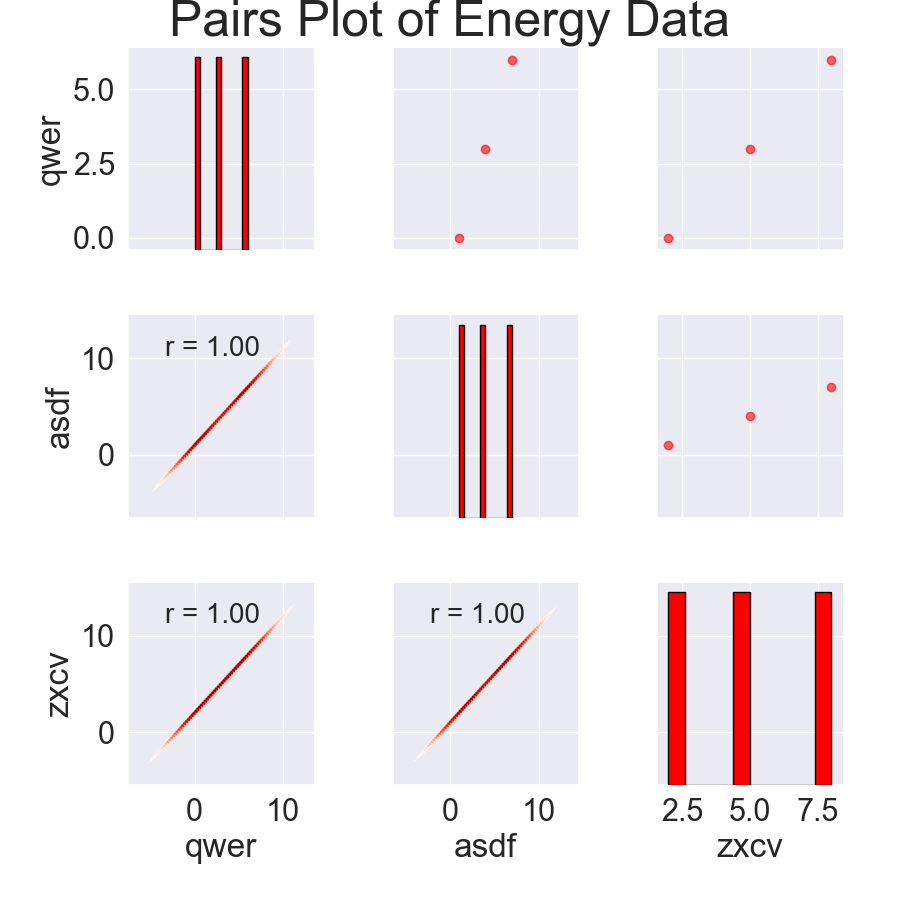
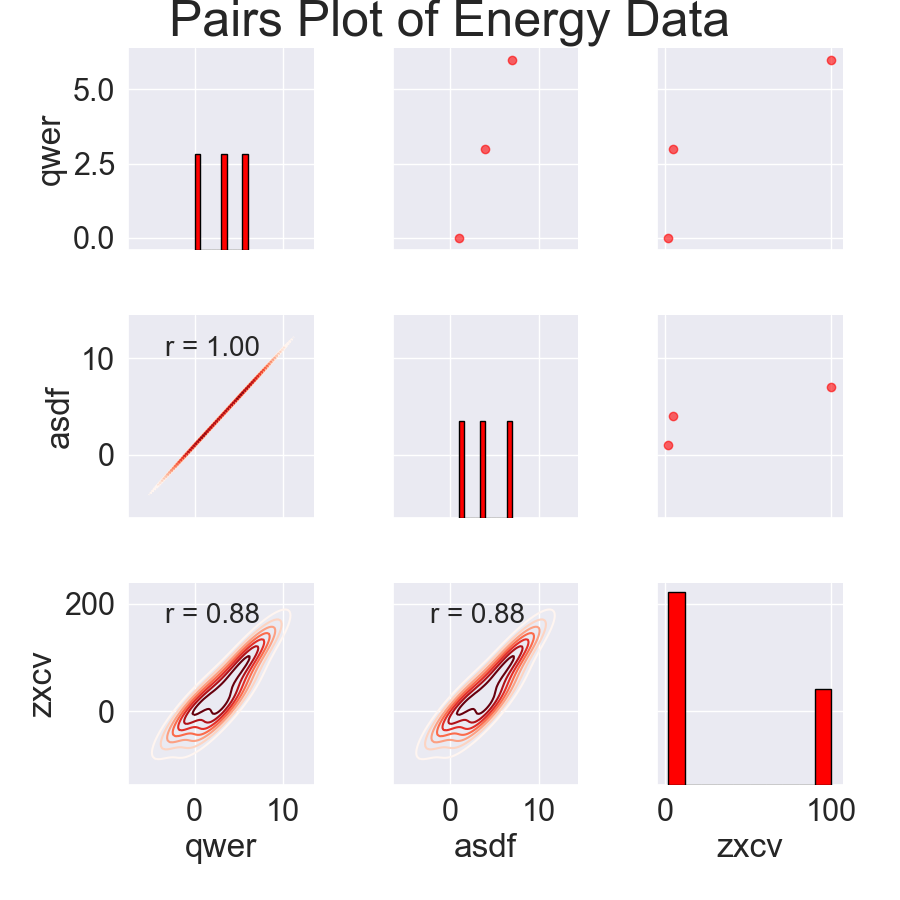
Add new chart

diff --git a/semester_stat.py b/semester_stat.py
@@ -1,0 +1,48 @@
+# coding=utf-8
+import pandas as pd
+import matplotlib.pyplot as plt
+
+# dates = ["2016-07-05 03:00:00", "2016-08-06 16:00:00", "2016-12-07 21:00:00",
+#          "2016-19-08 23:00:00", "2016-25-09 06:00:00", "2016-12-10 21:00:00",
+#          "2016-10-11 21:00:00", "2016-10-12 04:00:00", "2017-01-01 07:00:00",
+#          "2017-01-02 07:00:00"]
+dates = ["1 семестр", "2 семестр", "3 семестр", "4 семестр",
+         "5 семестр", "6 семестр", "7 семестр", "8 семестр",
+         "1 семестр", "2 семестр", "3 семестр", "4 семестр",
+         "5 семестр", "6 семестр", "7 семестр", "8 семестр",
+         "1 семестр", "2 семестр", "3 семестр", "4 семестр",
+         "5 семестр", "6 семестр", "7 семестр", "8 семестр"]
+# app = ["Thermometer","Thermometer","Thermometer","Thermostat","Thermostat","Thermometer",
+#        "Thermostat","Thermometer","Thermostat","Thermometer"]
+app = ["2016", "2016", "2016", "2016",
+       "2016", "2016", "2016", "2016",
+       "2017", "2017", "2017", "2017",
+       "2017", "2017", "2017", "2017",
+       "2018", "2018", "2018", "2018",
+       "2018", "2018", "2018", "2018"]
+# values = [22,19,25,21,20,18,21,20,19,23]
+values = [22, 19, 25, 21,
+          20, 18, 21, 20,
+          32, 39, 35, 31,
+          30, 38, 31, 30,
+          42, 49, 45, 41,
+          40, 48, 41, 40]
+df = pd.DataFrame({"Date": dates, "Appliance": app, "Value": values})
+# df.Date = pd.to_datetime(df['Date'], format='%Y-%d-%m %H:%M:%S')
+df=df.set_index('Date')
+
+##########
+
+df1 = df[df["Appliance"] == "2016"]
+df2 = df[df["Appliance"] == "2017"]
+df3 = df[df["Appliance"] == "2018"]
+
+plt.plot(df1.index, df1["Value"].values, marker="o", label="2016")
+plt.plot(df2.index, df2["Value"].values, marker="o", label="2017")
+plt.plot(df3.index, df3["Value"].values, marker="o", label="2018")
+plt.gcf().autofmt_xdate()
+plt.xlabel(u"Семестр")
+plt.ylabel(u"Успеваемость, %")
+plt.legend()
+
+plt.savefig('semester_stat.png')

diff --git a/density_plot.py b/density_plot.py
@@ -1,0 +1,70 @@
+# Pandas and numpy for data manipulation
+import inline as inline
+import pandas as pd
+import numpy as np
+
+# No warnings about setting value on copy of slice
+pd.options.mode.chained_assignment = None
+
+# Display up to 60 columns of a dataframe
+pd.set_option('display.max_columns', 60)
+
+# Matplotlib visualization
+import matplotlib
+import matplotlib.pyplot as plt
+
+# %matplotlib inline
+
+# Set default font size
+plt.rcParams['font.size'] = 24
+
+# Internal ipython tool for setting figure size
+from IPython.core.pylabtools import figsize
+
+# Seaborn for visualization
+import seaborn as sns
+
+sns.set(font_scale=2)
+
+# Splitting data into training and testing
+# from sklearn.model_selection import train_test_split
+
+
+featuresClean = pd.read_csv('test2.csv')
+features = featuresClean+0.00001*np.random.rand(3, 3)
+
+# Extract the columns to  plot
+# plot_data = features[['qwer', 'asdf', 'zxcv']]
+plot_data = features
+
+# Replace the inf with nan
+plot_data = plot_data.replace({np.inf: np.nan, -np.inf: np.nan})
+
+# # Rename columns
+# plot_data = plot_data.rename(columns = {'log_Total GHG Emissions (Metric Tons CO2e)': 'log GHG Emissions'})
+
+# Drop na values
+plot_data = plot_data.dropna()
+
+
+# Create a list of buildings with more than 100 measurements
+types = plot_data.dropna(subset=['semester'])
+types = types['Year'].value_counts()
+types = list(types[types.values > 0].index)
+
+# Plot of distribution of scores for building categories
+figsize(12, 10)
+
+# Plot each building
+for b_type in types:
+    # Select the building type
+    subset = plot_data[plot_data['Year'] == b_type]
+
+    # Density plot of Energy Star scores
+    sns.kdeplot(subset['semester'].dropna(),
+                label=b_type, shade=False, alpha=0.8)
+
+# label the plot
+plt.xlabel('Energy Star Score', size=20);
+plt.ylabel('Density', size=20);
+plt.title('Density Plot of Energy Star Scores by Building Type', size=28)

diff --git a/semester_corr.py b/semester_corr.py
@@ -1,0 +1,71 @@
+# coding=utf-8
+# Pandas and numpy for data manipulation
+import pandas as pd
+import numpy as np
+
+# No warnings about setting value on copy of slice
+pd.options.mode.chained_assignment = None
+
+# Display up to 60 columns of a dataframe
+pd.set_option('display.max_columns', 60)
+
+# Matplotlib visualization
+import matplotlib.pyplot as plt
+
+# Set default font size
+plt.rcParams['font.size'] = 24
+
+# Internal ipython tool for setting figure size
+from IPython.core.pylabtools import figsize
+
+# Seaborn for visualization
+import seaborn as sns
+
+sns.set(font_scale=2)
+sns.set(style="ticks", color_codes=True)
+
+
+featuresClean = pd.read_csv('semester_corr.csv')
+features = featuresClean+0.00001*np.random.rand(8, 3)
+
+# Extract the columns to  plot
+plot_data = features[['2016', '2017', '2018']]
+
+# Replace the inf with nan
+plot_data = plot_data.replace({np.inf: np.nan, -np.inf: np.nan})
+
+# # Rename columns
+# plot_data = plot_data.rename(columns = {'log_Total GHG Emissions (Metric Tons CO2e)': 'log GHG Emissions'})
+
+# Drop na values
+plot_data = plot_data.dropna()
+
+
+# Function to calculate correlation coefficient between two columns
+def corr_func(x, y, **kwargs):
+    r = np.corrcoef(x, y)[0][1]
+    ax = plt.gca()
+    ax.annotate("r = {:.2f}".format(r),
+                xy=(.2, .8), xycoords=ax.transAxes,
+                size=20)
+
+
+# Create the pairgrid object
+# grid = sns.PairGrid(data=plot_data, size=3)
+grid = sns.PairGrid(data=plot_data, height=3)
+
+# Upper is a scatter plot
+grid.map_upper(plt.scatter, color='red', alpha=0.6)
+
+# Diagonal is a histogram
+grid.map_diag(plt.hist, color='red', edgecolor='black')
+
+# Bottom is correlation and density plot
+grid.map_lower(corr_func)
+grid.map_lower(sns.kdeplot, cmap=plt.cm.Reds)
+
+# Title for entire plot
+plt.suptitle(u"Успеваемость", size=20, y=1)
+
+# plt.draw()
+plt.savefig('semester_corr.png')

diff --git a/test.py b/test.py
@@ -1,0 +1,37 @@
+import pandas as pd
+import matplotlib.pyplot as plt
+# import matplotlisb.axes as ax
+
+dates = ["2016-07-05 03:00:00", "2016-08-06 16:00:00", "2016-12-07 21:00:00",
+         "2016-19-08 23:00:00", "2016-25-09 06:00:00", "2016-12-10 21:00:00",
+         "2016-10-11 21:00:00", "2016-10-12 04:00:00", "2017-01-01 07:00:00",
+         "2017-01-02 07:00:00"]
+app = ["Thermometer","Thermometer","Thermometer","Thermostat","Thermostat","Thermometer",
+       "Thermostat","Thermometer","Thermostat","Thermometer"]
+values = [22,19,25,21,20,18,21,20,19,23]
+df = pd.DataFrame({"Date" : dates, "Appliance" : app, "Value":values})
+df.Date = pd.to_datetime(df['Date'], format='%Y-%d-%m %H:%M:%S')
+df=df.set_index('Date')
+
+##########
+
+df1 = df[df["Appliance"] == "Thermostat"]
+df2 = df[df["Appliance"] == "Thermometer"]
+
+plt.plot(df1.index, df1["Value"].values, marker="o", label="Thermostat")
+plt.plot(df2.index, df2["Value"].values, marker="o", label="Thermmeter")
+plt.gcf().autofmt_xdate()
+plt.xlabel("x")
+plt.ylabel("y")
+plt.legend()
+
+plt.savefig('test1.png')
+
+##########
+
+df1 = df[df["Appliance"] == "Thermostat"]
+df2 = df[df["Appliance"] == "Thermometer"]
+
+ax = df1.plot(y="Value", label="Thermostat")
+df2.plot(y="Value", ax=ax, label="Thermometer")
+ax.legend().figure.savefig('test2.png')
